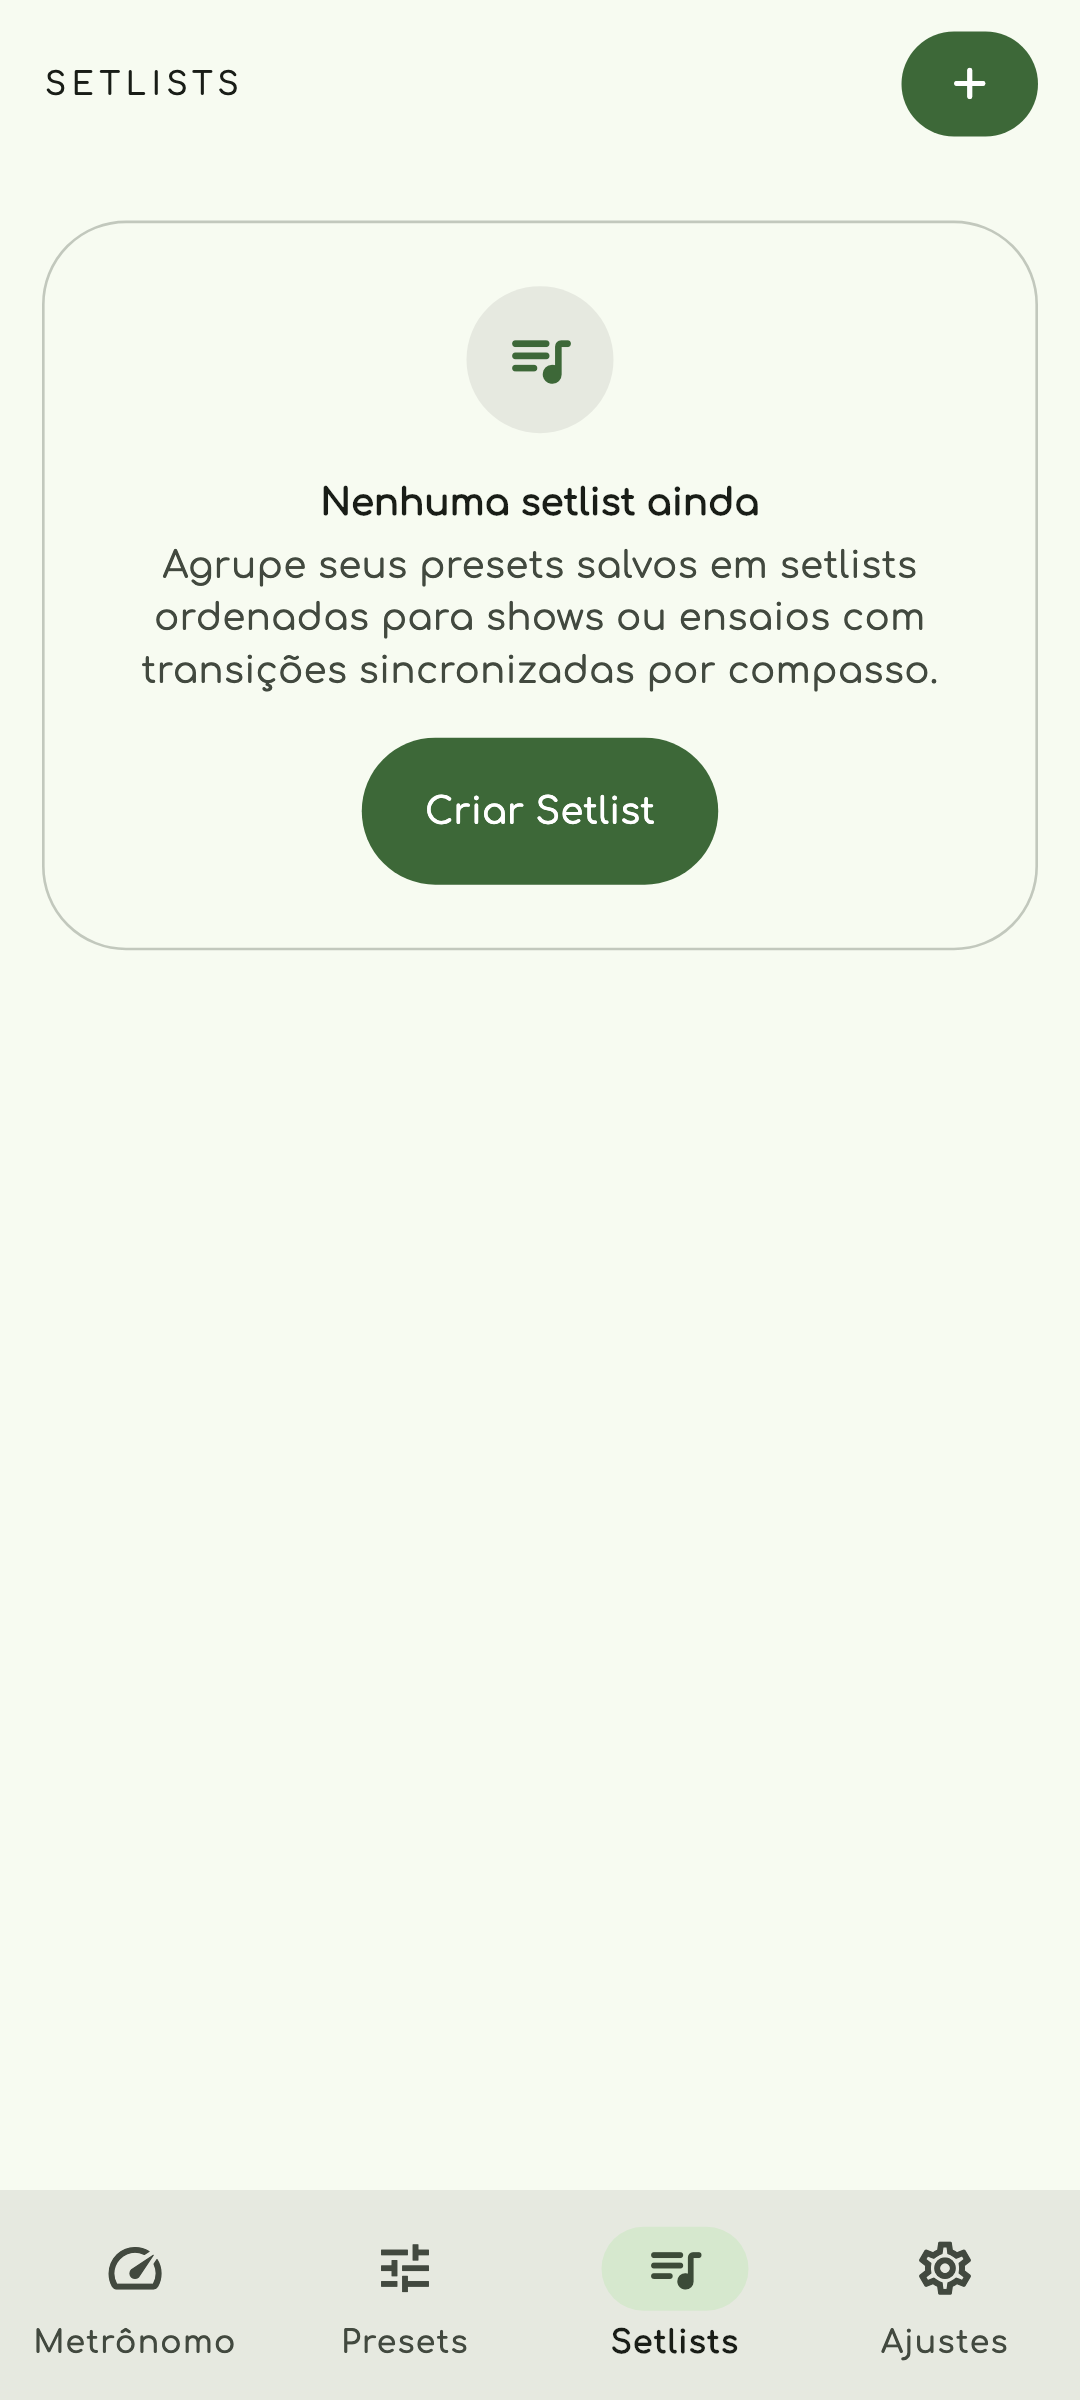
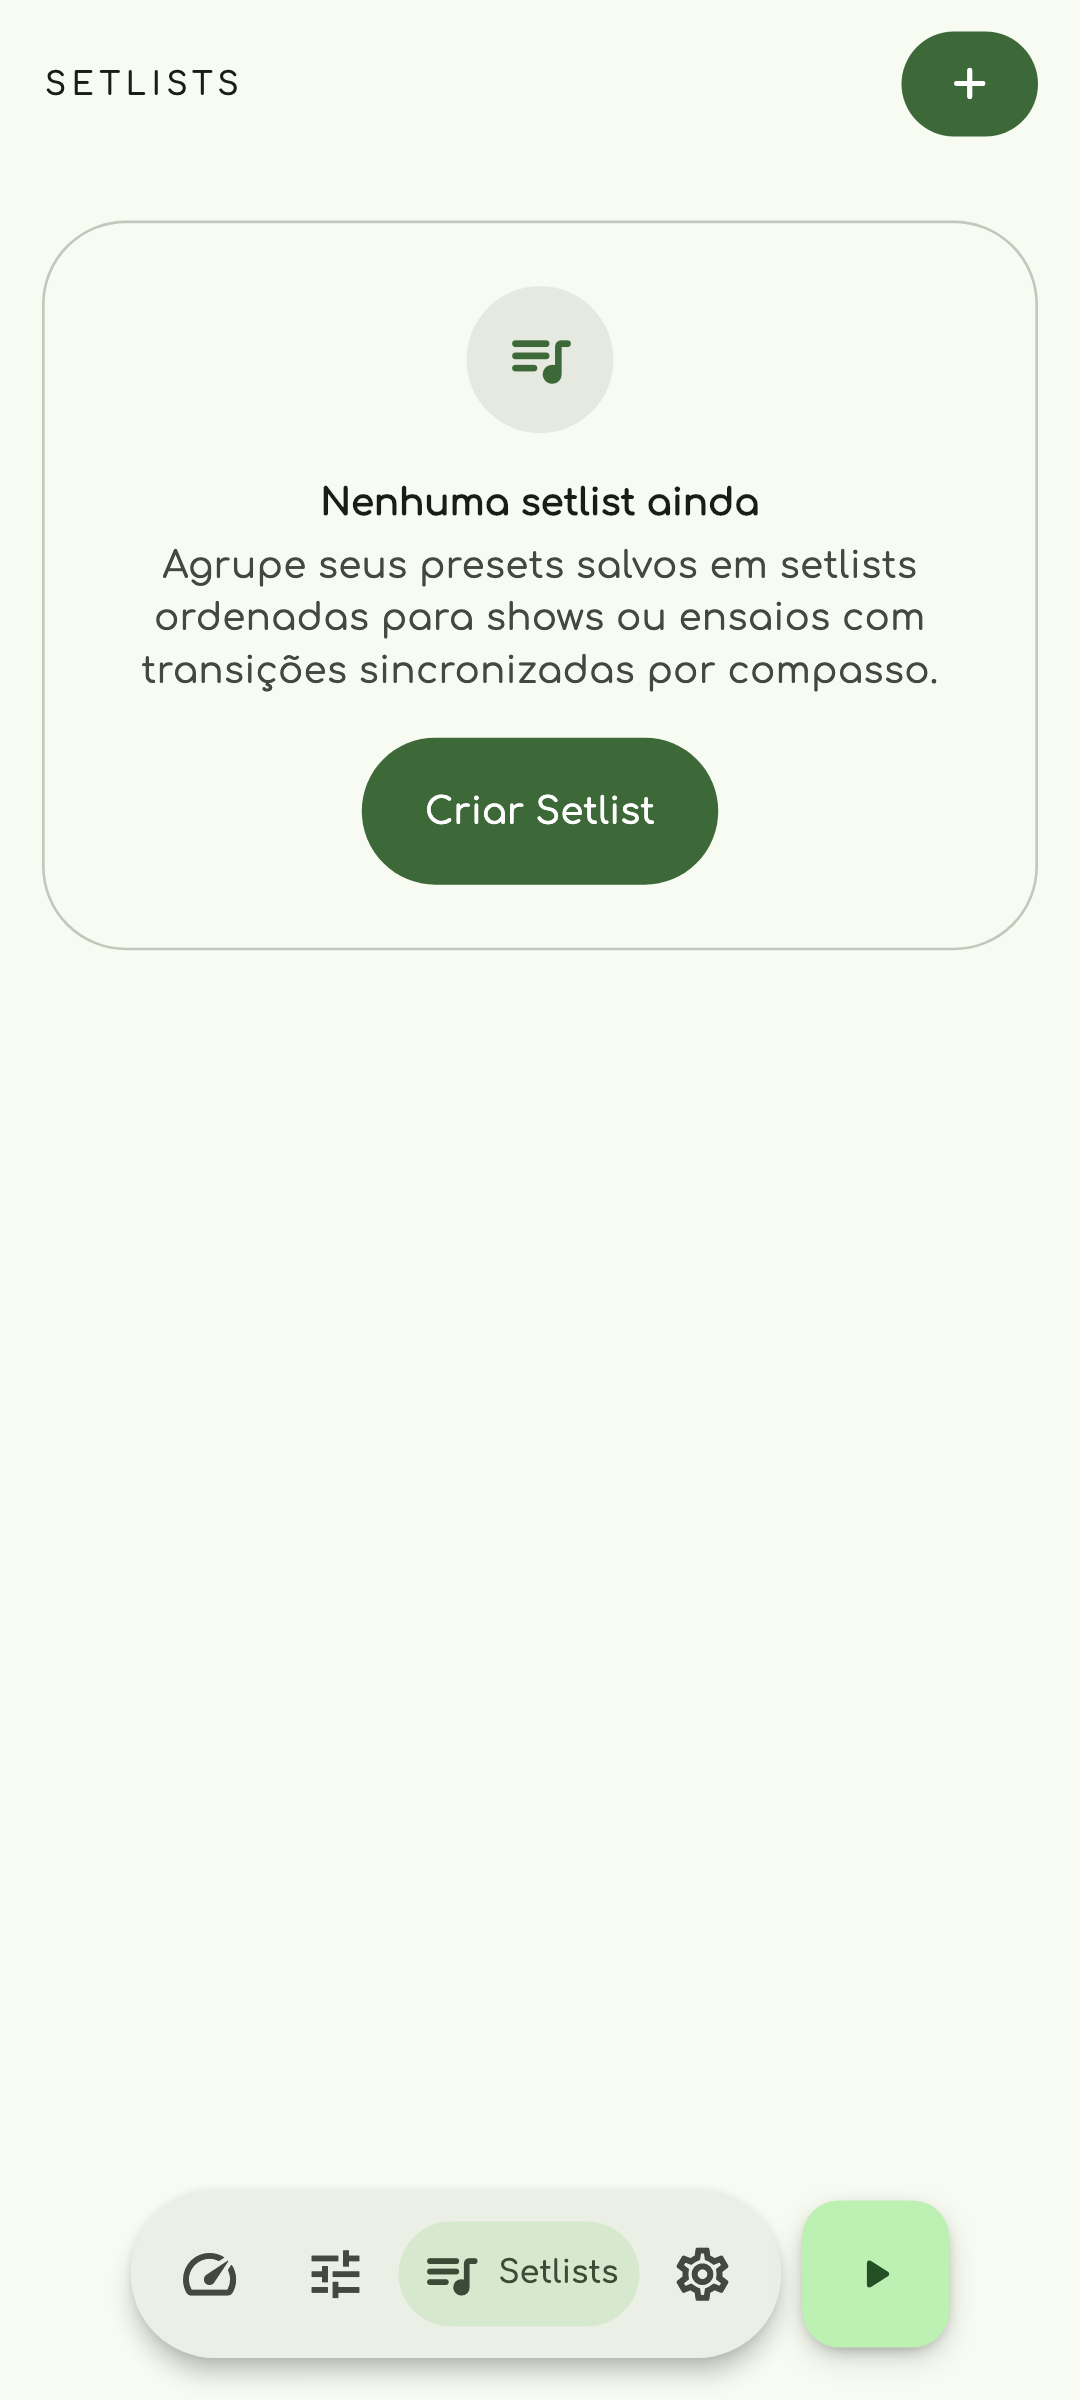
update goldens and screenshots for playstore

Changed region(s): [[0.0306, 0.9375, 0.7028, 1.0], [0.7333, 0.9062, 0.9167, 1.0]]

diff --git a/test/screenshots/play_store_screenshots_test.dart b/test/screenshots/play_store_screenshots_test.dart
@@ -150,7 +150,10 @@ Future<void> _captureScreenshotsForLocaleAndProfile(
 
   tester.view.physicalSize = profile.physicalSize;
   tester.view.devicePixelRatio = profile.devicePixelRatio;
+  final previousDisableShadows = debugDisableShadows;
+  debugDisableShadows = false;
   addTearDown(() {
+    debugDisableShadows = previousDisableShadows;
     tester.view.resetPhysicalSize();
     tester.view.resetDevicePixelRatio();
   });
